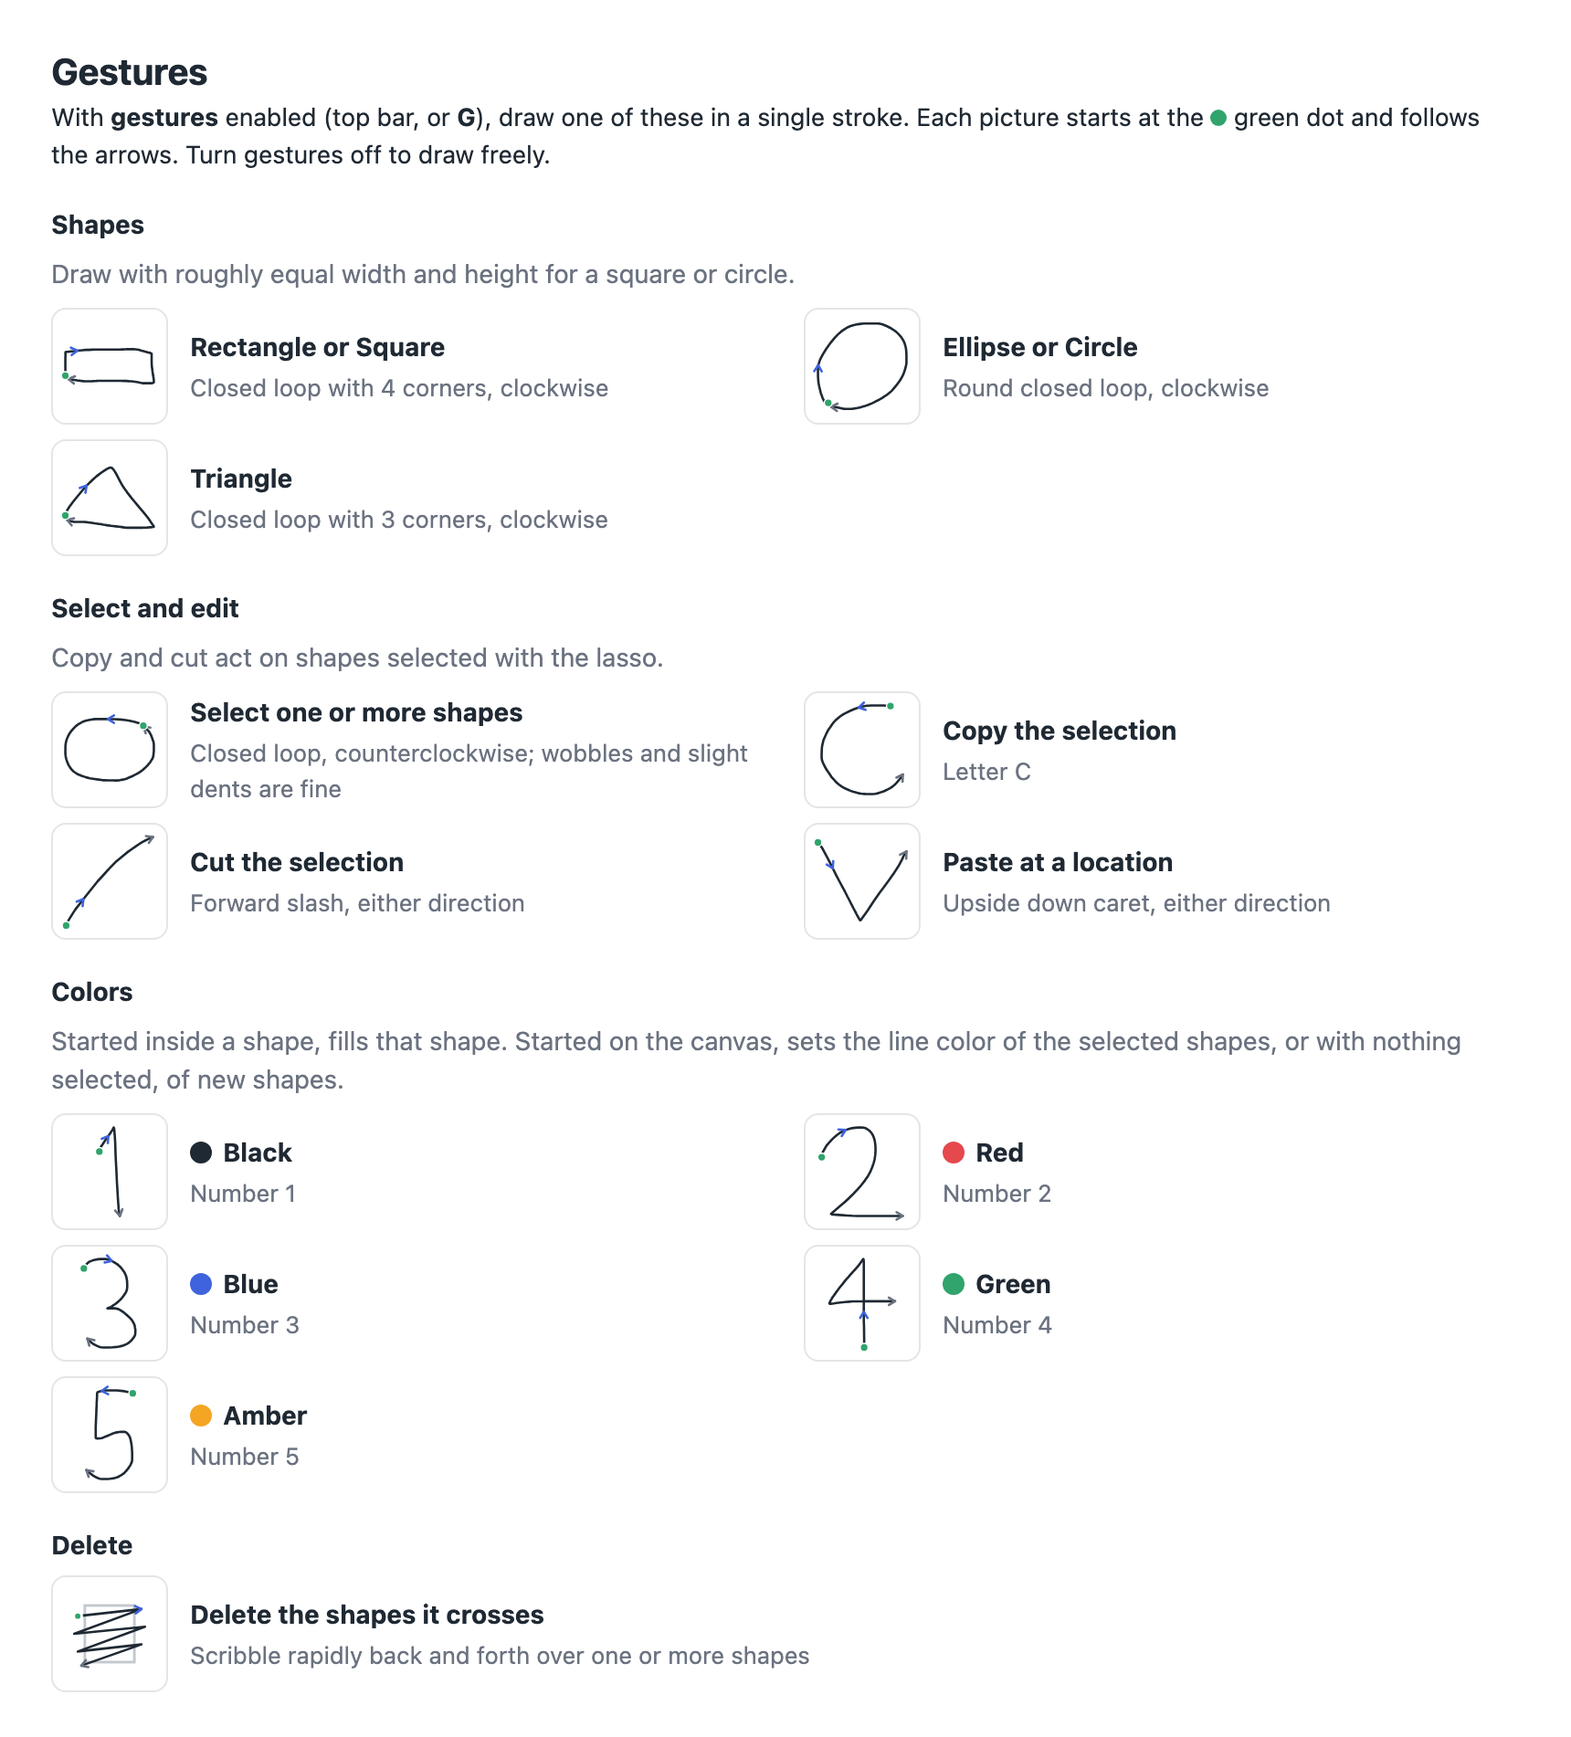
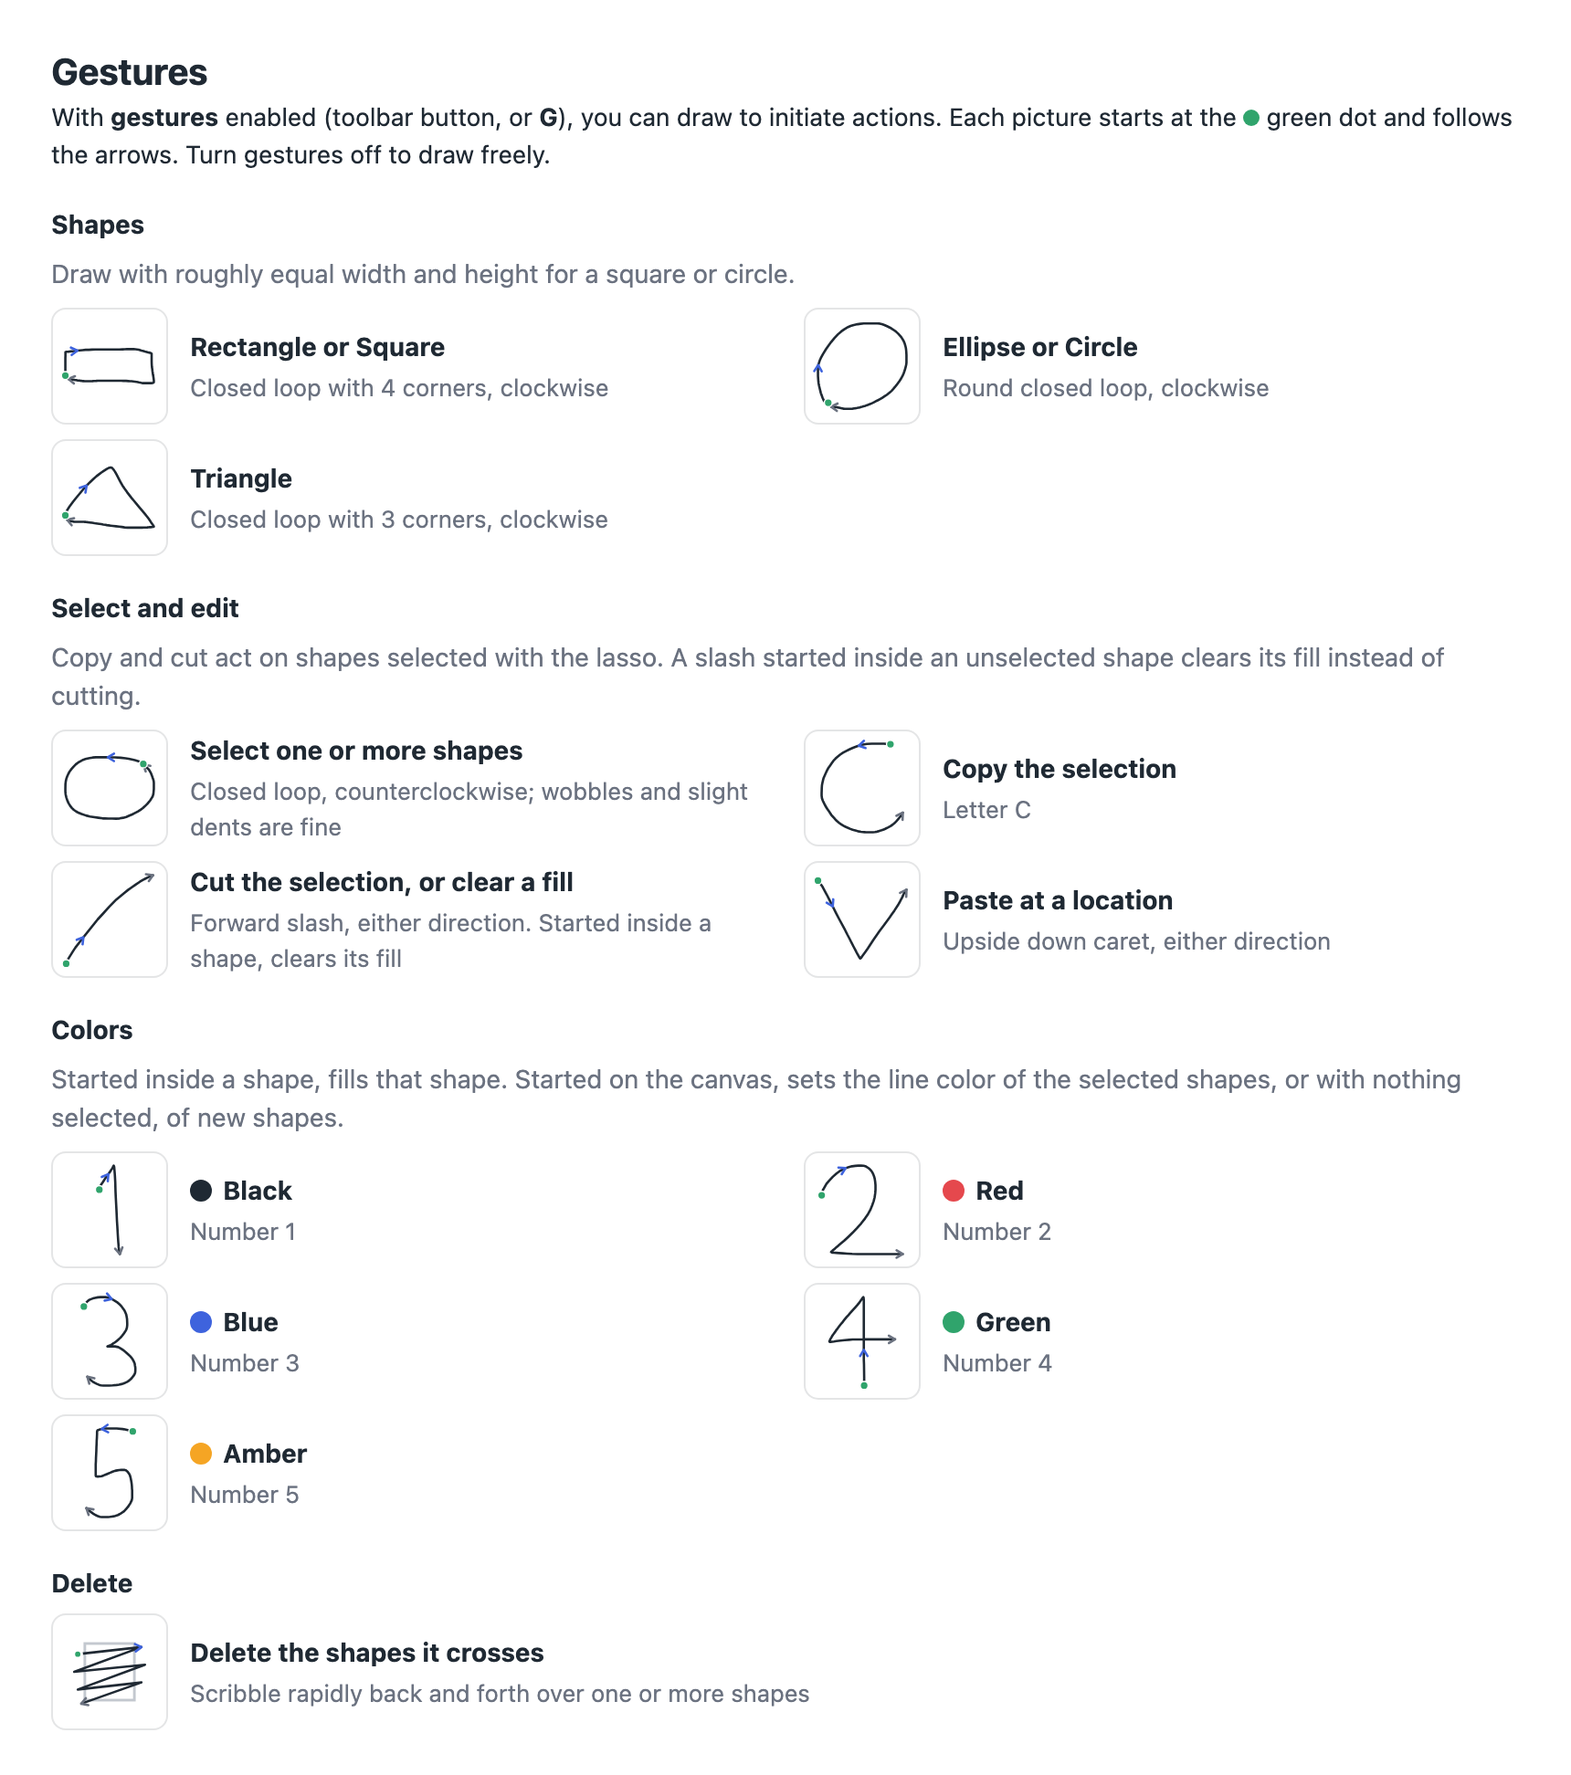
Update readme and help panel

diff --git a/src/ui/HelpPanel.tsx b/src/ui/HelpPanel.tsx
@@ -67,9 +67,9 @@ export function HelpPanel() {
             <li><b>Choose</b> an option by clicking it or dragging toward it and releasing.</li>
             <li><b>Keyboard:</b> <Key>M</Key> opens the menu. With the menu open, use <Key>←</Key> <Key>→</Key> to move around the ring. To enter a submenu, use <Key>↑</Key>. To leave it, use <Key>↓</Key>. Press <Key>Enter</Key> to choose an option.</li>
             <li><b>Cancel</b> by selecting the red X in the center, or by moving past the menu's edge. Esc works too.</li>
-            <li>The <b>File</b> menu at the top allows you to save and open your drawings.</li>
+            <li>The <b>File</b> menu in the toolbar allows you to save and open your drawings.</li>
             <li>
-              <b>Assistant:</b> Click <b>Assistant</b> in the top bar (or press <Key>/</Key>) to interact with an AI assistant.
+              <b>Assistant:</b> Click <b>Assistant</b> in the toolbar (or press <Key>/</Key>) to interact with an AI assistant.
               After typing, <b>point with the mouse</b> to indicate “here” or “this”, then press <b>Enter</b>.
             </li>
             <li>
@@ -93,14 +93,14 @@ export function HelpPanel() {
             </ul>
             <h3>Select Multiple Shapes</h3>
             <ul className="help-list">
-              <li><b>Shift-drag</b> or use the <b>select tool</b> (lower right, or <Key>V</Key>) to select multiple shapes.</li>
-              <li><b>{kbd('mod')}-click</b> (or <b>Shift-click</b>) a shape to add or remove it from the selection.</li>
-              <li>The selected shapes act as one object.</li>
+              <li><b>Shift+drag</b> or use the <b>select tool</b> (lower right, or <Key>V</Key>) to select multiple shapes.</li>
+              <li><b>{kbd('mod')}+click</b> (or <b>Shift+click</b>) a shape to add or remove it from the selection.</li>
+              <li>A multi-selection acts as one object.</li>
             </ul>
             <h3>Color</h3>
             <ul className="help-list">
               <li>Two swatches in the lower right: <b>Line</b> and <b>Fill</b>. They show the selected shape's colors, or what new shapes will get.</li>
-              <li><b>Drag a color onto any shape</b> to paint it directly. Lines only have a line color.</li>
+              <li><b>Drag a color onto a shape</b> to paint it directly. Lines only have a line color.</li>
               <li>The <b>rainbow +</b> opens a color editor, where you can choose and save additional colors.</li>
               <li>Saved colors can be dragged onto a <b>numbered swatch</b>, and numbered swatches can be swapped with each other.</li>
             </ul>

diff --git a/README.md b/README.md
@@ -45,55 +45,51 @@ With gestures enabled, single strokes drawn on the canvas act as commands.
 
 ### AI Assistant
 
-Click **Assistant** in the top bar (or press **/**) to open a chat panel and ask for changes in plain words: "put a green square here", "make the two circles bigger", "copy the triangle and paste it next to the square", "delete everything red".
+Click **Assistant** in the toolbar (or press **/**) to open a chat panel and ask for changes in plain language (e.g. "put a green square here", "delete everything red").
 
-- **Point while you type.** "Here" is where the mouse is on the canvas when you send the message, and "this" is the shape under it. A small marker shows that spot while you type, and the shape "this" will mean glows blue.
+- **Point while you type.** "Here" is where the pointer is on the canvas when you send the message, and "this" refers to a shape at that location. While typing in the message box, the pointer changes to a target icon.
 - **Every action is one the app already has.** The assistant works through the same actions as the menu, gestures and keyboard: create shapes and straight lines, select, move, scale, rotate, cut / copy / paste, delete, recolor, z-order, undo / redo, clear, and zoom. Each change is a normal undo step, so **Undo** reverts it like any other edit.
 - **Beyond the required commands:** recoloring line and fill with any color ("make it teal", "use sunset colors"), rotating ("turn the square into a diamond"), drawing straight lines ("connect the two circles", "draw an arrow pointing at the triangle"), changing the color keys and saving swatches ("save these as my palette"), bringing shapes to front / sending them to back, undoing or redoing several steps ("undo that"), and adjusting the view ("show me everything").
-- **One conversation.** The trash button clears it; the stop button cancels a request in progress.
+- **One conversation.** The trash button clears the conversation. If the stop button is pressed or a new request is sent while the assistant is thinking, the in-progress response is canceled.
 
 #### Connecting a Model
 
-The first time the panel opens, it asks for a provider, API key and model. The settings are stored in this browser only.
+The first time the assistant panel opens, it asks the user to enter a provider, API key and model (if they are not already set).
 
-- **Claude**: an [Anthropic API key](https://console.anthropic.com/) and a model, e.g. `claude-sonnet-5-5`.
-- **OpenAI-compatible**: OpenAI, or any service that offers the same API (OpenRouter, Groq, or local servers such as Ollama and LM Studio). Enter the service's **Server URL**, e.g. `https://openrouter.ai/api/v1` or `http://localhost:11434/v1` for Ollama. The model must support tool calling.
+The Server URL is optional for Claude and OpenAI. When left empty, the app uses their usual URL.
 
-The Server URL is optional for Claude and OpenAI. When left empty, the app uses their usual addresses.
-
-To skip the form, copy `.env.example` to `.env.local`, fill it in, and restart `npm run dev`. The key goes in `AI_API_KEY`. It has no `VITE_` prefix, so it stays on the dev server and never reaches the browser or a build. The dev server forwards the assistant's requests and adds the key. A production build has no server, so there the key must be entered in the panel.
+Alternatively, copy `.env.example` to `.env.local` and fill in the **AI Configuration** variables. The API key variable has no `VITE_` prefix, so it is only used in the dev server, not injected in a production build.
 
 ### Drawing and Editing
 
 - **Create shapes** from the empty-canvas menu. Choosing a shape turns the pointer into a crosshair with a small icon of that shape. Drag to draw it at any size, or click to place it at a default size. For triangles, drag to draw one side, then click to place the third corner; it snaps to right angles and equal sides. The pointer then returns to the pen.
 - **Freehand drawing** with live shape recognition. If a stroke closes into a recognized shape, a **preview** of that shape appears. Release to snap to that shape.
-- **Straight lines.** Hold **Shift** partway through a freehand stroke and it becomes a straight line from where the stroke began. It snaps to horizontal, vertical and 45° when close. Let go of Shift to continue freehand.
-- **Connecting lines.** A selected line shows a handle at each end; drag one to reshape the line. Line ends snap onto other lines' ends and onto the corners of squares, rectangles and triangles (a ring marks the joint). Moving a shape or line snaps it the same way. Dragging from the end of an unselected line draws onward from that exact point.
+- **Straight lines.** Start sketching, then hold **Shift** to get a straight line.
+- **Connecting lines.** Select a straight line, then drag its endpoints to stretch it. Line endpoints snap to each other and to shape corners.
 - **Object manipulation.** Select, move, scale, and rotate objects.
-- **Multi-select.** Select several objects by clicking or with a selection box. A multi-selection acts as one object: moving, scaling, and recoloring affects all selected objects.
+- **Multi-select.** A multi-selection acts as one object: moving, scaling, and recoloring affects all selected objects.
 - **Cut, copy, and paste**, **z-order** (To Front / To Back), an **eraser tool**, and **undo / redo**.
 
 ### Color
 
-Two swatches show the **line color** and **fill color**. The swatches indicate the color of the selected shape or, with nothing selected, the color new shapes will get. Colors can be picked from the swatches, by dragging a swatch onto a shape, or from the shape menu's Line / Fill submenus.
+Two swatches in the lower right show the **line color** and **fill color**. The swatches indicate the color of the selected shape or, with nothing selected, the color new shapes will get.
 
-- **Color keys.** Five colors sit on keys **1–5**, and the swatch fan, the menu's Line / Fill submenus and the number gestures all use them. They start as black, red, blue, green and amber, but any color can be put on any key.
-- **Any color.** The rainbow **+** in the fan opens a color editor with a saturation / brightness square, a hue strip, a hex field, and (in Chrome / Edge) an eyedropper. The selection updates live as you drag, and each drag is one undo step.
-- **Saved colors.** Up to six colors can be saved. They appear in an outer row of the fan, like the pie menu's submenu ring. Drag any color onto a numbered swatch to put it on that key, or drag one key onto another to swap them. Keys and saved colors are remembered in this browser.
+- **Color keys.** The five colors are tied to the number keys **1–5**.
+- **Any color.** The rainbow **+** opens a color editor with a saturation / brightness square and a hue slider. In Chrome and Edge browsers, there is also an eyedropper tool.
+- **Saved colors.** Up to six colors can be saved. Saved colors can be dragged onto a numbered swatch, and numbered swatches can be swapped with each other.
 
 ### Navigation
 
 An infinite canvas with map-style navigation. Pan and zoom with the mouse, a trackpad, or the keyboard.
 
-### Files
+### Saving
 
-Saving and opening files can be done through the **File** menu in the toolbar. Documents are saved as JSON (`{ "version": 1, "shapes": [...] }`) and validated when opened. Unsaved work is indicated with a blue dot next to the document title.
+- **Autosave.** The canvas, the undo history, and the assistant conversation are saved in the browser (IndexedDB) as you work, so a refresh doesn't lose them. The status label next to the document title indicates if changes are being saved. Autosave can be toggled in the toolbar.
+- **Files.** Saving and opening files can be done through the **File** menu in the toolbar. Documents are saved as JSON (`{ "version": 1, "shapes": [...] }`) and validated when opened. Changes not yet saved to a file are indicated with a blue dot next to the document title.
 
 ## Design Decisions
 
 **Pie menu at the pointer instead of a toolbar.** A toolbar makes every command a trip to the screen edge. The pie menu opens where you're working. Every item is equally close, and the wedges widen as you move outward. In Fitts's law terms, the distance is short and the target widens as you move, so every command is fast to hit. The cost is discoverability. An empty-canvas prompt shows new users how to open the menu, and the help panel lists every command.
-
-**Choosing a shape arms a tool instead of dropping a shape.** A shape that appears at a fixed size where the menu was opened almost always has to be moved and scaled afterward. Dragging it out sets position and size in one gesture. The crosshair gives a precise corner to aim with, and the shape icon beside it shows what the next drag will draw, so the mode is visible right where the user is looking. The tool is one-shot and Esc cancels it, so it can't be left on by accident.
 
 **Direction, not distance, selects the menu option.** The slow, label-reading motion later becomes a quick directional flick from memory.
 
@@ -101,21 +97,15 @@ Saving and opening files can be done through the **File** menu in the toolbar. D
 
 **File commands in a conventional toolbar.** File commands are used rarely, so they would take up space in a pie menu that could go to more frequent actions. A File menu in the top left is familiar to people so it is easily found.
 
-**Two ways to box-select.** A plain drag on empty canvas already draws, so box selection uses Shift-drag or the select tool. The box selects anything it *touches*, so a rough drag is enough, and selected shapes are outlined. The selected group then acts as one target for object manipulation.
-
 **Minimal toolbar.** The toolbar is minimal to reduce the work of scanning for the desired option.
 
 **Right-side tools.** The remaining tools sit together in a stack on the right. Keeping them in one place means the user knows exactly where to look, and the large buttons are easy to hit. Each tool has a keyboard or gesture shortcut, so experienced users can skip the stack entirely.
 
 **Color swatches that fan out.** There are two color swatches, and they are distinguished by their appearance, not just their label. Clicking a swatch fans the colors out in an arc that echoes the pie menu. Dragging a swatch onto a shape recolors it without having to select it first.
 
-**Custom colors go on the keys, not in a new place.** The five keys stay in fixed positions in the fan, so choosing one keeps working from memory. A custom color becomes quick to reach by being put on a key, after which the number key, the number gesture and the menu all apply it. The custom button comes first in the outer row, so it never moves as colors are saved. The full color editor stays one click away for the less frequent task of creating a new color.
+**Rotation by direct manipulation.** A visible handle is easier to find than a hidden modifier, and dragging it gives continuous feedback.
 
-**Rotation by direct manipulation.** A visible handle is easier to discover than a hidden modifier, and dragging it gives continuous feedback. The angle snaps only when close to a 45° step, so common angles are easy to hit exactly while any other angle is still possible. A single shape's box turns with it, so its edges still stretch it along its own width and height. A multi-selection keeps an upright box. Stretching it moves every shape exactly with the box, but a turned shape can't be slanted, so it keeps its angle and each of its sides grows by as much as the stretch lengthens that side.
-
-**Line ends are the magnets.** Snapping happens only when one side of the pair is a line's end: end to end, end to corner, or a moved shape's corner onto an end. Corners never pull on corners, so moving shapes near each other stays free. Circles, ellipses and freehand strokes have no snap points. The snap distance is fixed on screen, so it feels the same at any zoom.
-
-**Straight lines without a new tool.** Holding Shift while drawing already means "constrain" elsewhere in the app (equal sides, kept proportions). Shift pressed at the *start* of a drag still box-selects. Pressing it once the stroke is underway straightens the line, so the two uses don't collide.
+**Straight lines without a new tool.** Pressing **Shift** *before* you start dragging initiates a box selection. Holding **Shift** *after* you start dragging straightens the drawn line.
 
 **Ghost preview for shape recognition.** When drawing freehand, a recognized shape appears as a ghost *behind* the drawing, at the exact size it will snap to. It changes only after multiple consecutive frames agree.
 
@@ -127,9 +117,7 @@ Saving and opening files can be done through the **File** menu in the toolbar. D
 
 **Pointing instead of coordinates.** Nobody wants to type coordinates, so the mouse supplies the location. Each message is sent with the pointer's position, the shape under it, the visible area, the selection, and a summary of every shape. That gives the model what it needs to resolve "here", "this", "the one on the left", or "the biggest circle".
 
-**Keeping the pointer visible on the canvas.** Normally, when you press Esc while typing in a text box, the operating system hides the pointer until the mouse moves again. This rarely matters while browsing, but on a drawing canvas, losing the pointer is disorienting. Here is how this app handles it: when Esc is pressed in the chat panel (and the pointer is on the canvas), a marker is shown at the pointer's position with the current tool indicated. This allows the user to resume drawing immediately.
-
-**Any model.** The conversation is stored in a provider-neutral form, and a small adapter talks to Claude (through the Anthropic SDK) or to any OpenAI-compatible API (`src/ai/providers.ts`). The model runs in a loop: it requests tool calls, the app runs them in order and returns the results, and this repeats until the model replies with plain text.
+**Keeping the pointer visible on the canvas.** The operating system normally hides the pointer when Esc is pressed while typing (until the mouse moves again), which is disorienting on a drawing canvas. In this app, when Esc is pressed, a marker shows where the pointer is on the canvas, so drawing can resume right away.
 
 ### Gesture Design
 
@@ -182,7 +170,7 @@ Accuracy is measured by classifying each test stroke once. Timing is measured se
 - **Filling several shapes by gesture.** The fill color gesture can only affect one shape at a time. Dragging inside a selection moves it, so it can't detect a gesture that starts inside it.
 - **Drawing capabilities.** One stroke width. Straight lines are freehand strokes, with no arrowheads or endpoint editing.
 - **Erasing.** There is no pixel-level erasing, by design.
-- **Export and persistence.** No PNG/SVG export, no autosave.
+- **Export.** No PNG/SVG export.
 
 ## AI Assistance
 
